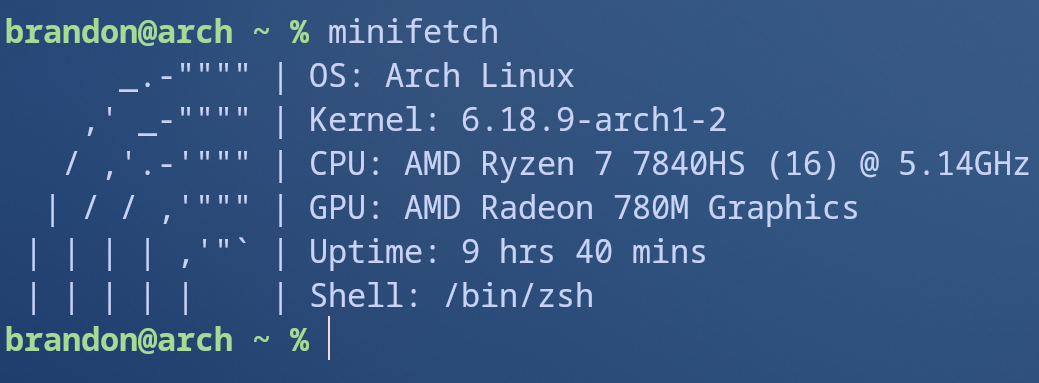
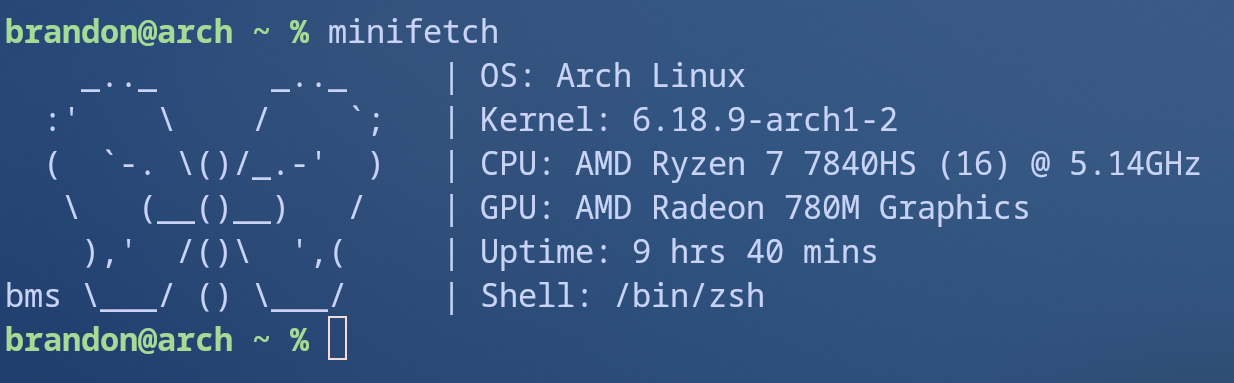
Changes...

diff --git a/main.py b/main.py
@@ -7,6 +7,11 @@ from modules.uptime import get_uptime
 from modules.shell import get_shell
 from modules.cpu import get_cpu
 from modules.gpu import get_gpu
+from modules.packages import get_packages
+from modules.memory import get_memory
+from modules.terminal import get_terminal
+from modules.de import get_de
+from modules.wm import get_wm
 from modules.ascii.art import get_ascii_art
 
 BASE_DIR = Path(__file__).parent
@@ -16,10 +21,15 @@ FUNCTION_MAP = {
     "get_cpu": get_cpu,
     "get_gpu": get_gpu,
     "get_uptime": get_uptime,
-    "get_shell": get_shell
+    "get_shell": get_shell,
+    "get_packages": get_packages,
+    "get_memory": get_memory,
+    "get_terminal": get_terminal,
+    "get_de": get_de,
+    "get_wm": get_wm
 }
 
-# load modules from JSON
+# Load modules from modules.json file
 with open(BASE_DIR / "modules.json") as f:
     modules_data = json.load(f)
 
